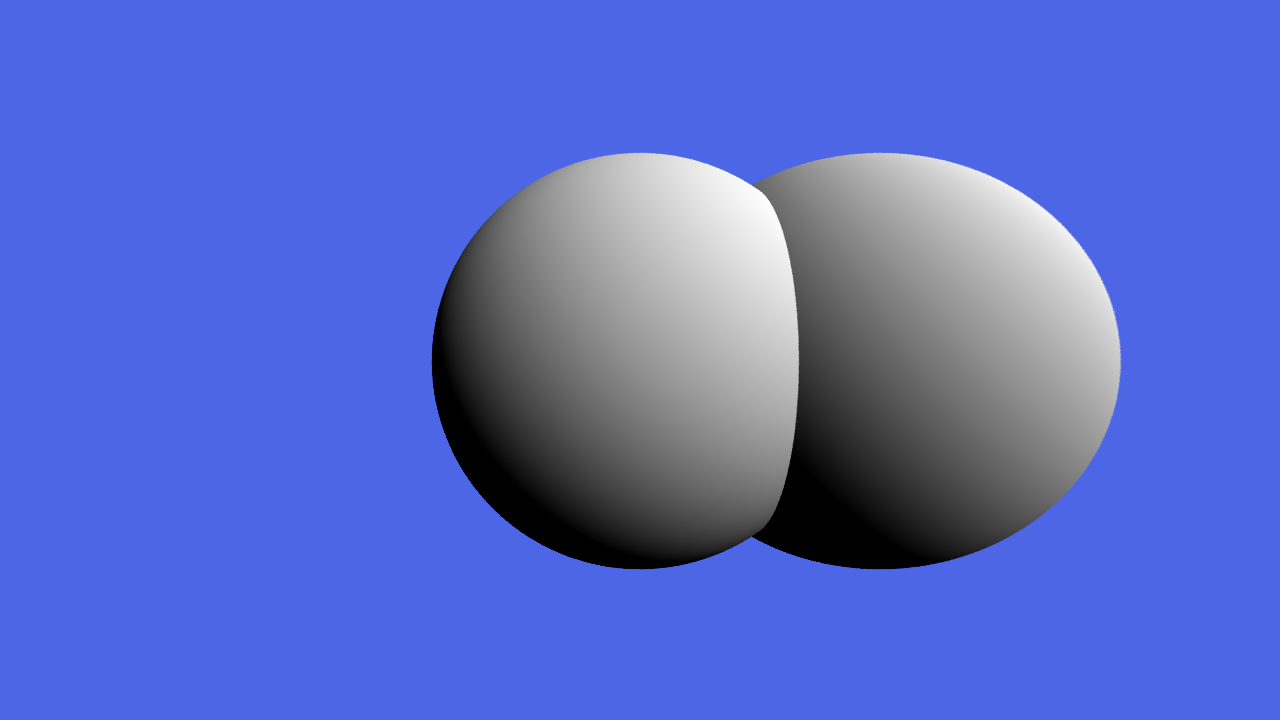
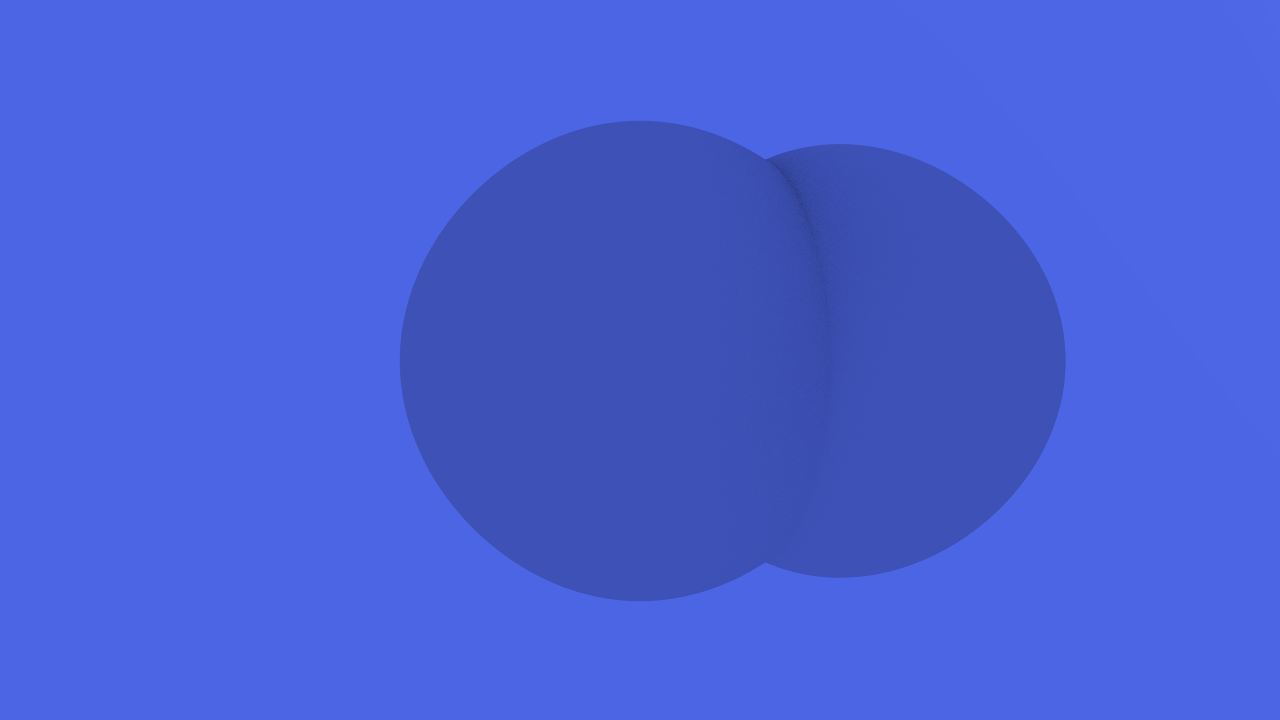
Added perspective correct camera

Changed region(s): [[0.3125, 0.1528, 0.875, 0.8556]]

diff --git a/renderer/renderer.cpp b/renderer/renderer.cpp
@@ -1,22 +1,52 @@
 #include "renderer.hpp"
 #include "../util/vec3.hpp"
 #include "../objects/sphere.hpp"
+#include "../util/rand.hpp"
 #include <cmath>
 #include <stdio.h>
 
 Ray StingrayRenderer::camera_ray(const Vec3& uv) {
-    Vec3 screen_plane = Vec3(uv.x, uv.y, 1.0f);
-    Vec3 eye = Vec3(0.0f); // Put the eye at the origin
+    float FOV = .5 * 3.1415926535897932; // 90 degrees
+
+    float angle_xz = (FOV / 2.0f) * uv.x;
+    float angle_yz = (FOV / 2.0f) * uv.y;
+
+    float loc_y = sin(angle_yz);
+    float loc_x = sin(angle_xz);
+    float loc_z = cos(angle_yz) * cos(angle_xz);
+
+    Vec3 screen_plane = Vec3(loc_x, loc_y, loc_z).normalize();
+    Vec3 eye = Vec3(0.0f); // Put the eye at the origin (for now)
 
     Vec3 direction = (screen_plane - eye).normalize();
     return Ray(eye, direction);
 }
 
-Vec3 StingrayRenderer::ray_shader(Ray& camera, Object *scene, int max_bounces) {
+Vec3 StingrayRenderer::sky_color(const Vec3& dir) {
+    return Vec3(fmaxf(0.0, fminf(1.0, powf(Vec3(3, 3, -3).normalize().dot(dir), 15)))) * Vec3(.9, .9, .7) + Vec3(0.3, 0.4, 0.9);
+}
+
+Vec3 StingrayRenderer::ray_shader(Ray camera, Object *scene, int max_bounces) {
     HitInfo intersect = scene->intersect(camera);
-    if (intersect.hit)
-        return intersect.normal.dot(Vec3(3, 3, -3).normalize());
-    return Vec3(fmaxf(0.0, fminf(1.0, powf(Vec3(3, 3, -3).normalize().dot(camera.direction), 15)))) * Vec3(.9, .9, .7) + Vec3(0.3, 0.4, 0.9);
+
+    Vec3 color = Vec3(1.0f);
+    Vec3 light = Vec3(0.0f);
+
+    for (int bounce = 0; bounce < max_bounces; ++bounce) {
+        HitInfo intersect = scene->intersect(camera); 
+        if (!intersect.hit) {
+            light = light + sky_color(camera.direction) * color;
+            break;
+        }
+            // TODO: emission & color
+        light = light + color * Vec3(0.0);
+        color = color * Vec3(0.8);
+
+        camera.origin = intersect.position + intersect.normal * 0.0001f;
+        camera.direction = rand_in_hemisphere(intersect.normal);
+    }
+
+    return light;
 }
 
 void StingrayRenderer::render(int startX, int startY, int endX, int endY, int samples, Object *scene) {
@@ -41,7 +71,7 @@ void StingrayRenderer::render(int startX, int startY, int endX, int endY, int sa
             for (int i = 0; i < samples; i++) {
                     // Antialiasing by offestting the eye position by a small amount
                     // TODO: faster random number generation
-                Ray camera = Ray (orig_camera.origin + Vec3((float)rand() / (float)RAND_MAX, (float)rand() / (float)RAND_MAX, (float)rand() / (float)RAND_MAX) * 0.002, orig_camera.direction);
+                Ray camera = Ray (orig_camera.origin + Vec3(randf(), randf(), randf()) * 0.002, orig_camera.direction);
                 color = color + ray_shader(camera, scene);
             }
             color = color / (float)samples;

diff --git a/util/rand.hpp b/util/rand.hpp
@@ -1,4 +1,23 @@
 #ifndef RAND_HPP
 #define RAND_HPP
 
+#include "vec3.hpp"
+
+float randf() {
+    return (float)rand() / (float)RAND_MAX;
+}
+
+Vec3 rand_in_unit_sphere() {
+    return Vec3(randf(), randf(), randf()).normalize();
+}
+
+Vec3 rand_in_hemisphere(const Vec3& normal) {
+    Vec3 in_unit_sphere = rand_in_unit_sphere();
+    if (in_unit_sphere.dot(normal) > 0.0) {
+        return in_unit_sphere;
+    } else {
+        return -in_unit_sphere;
+    }
+}
+
 #endif

diff --git a/renderer/renderer.hpp b/renderer/renderer.hpp
@@ -10,7 +10,8 @@ private:
     RenderBuffer &buffer;
 
     Ray camera_ray(const Vec3& uv);
-    Vec3 ray_shader(Ray& camera, Object* scene, int max_bounces=5);
+    Vec3 sky_color(const Vec3& dir);
+    Vec3 ray_shader(Ray camera, Object* scene, int max_bounces=5);
 
 public:
     StingrayRenderer(RenderBuffer &buffer) : buffer(buffer) { };

diff --git a/util/vec3.hpp b/util/vec3.hpp
@@ -68,6 +68,11 @@ public:
     }
 
 
+    // Negation
+    Vec3 operator-() const {
+        return Vec3(-this->x, -this->y, -this->z);
+    }
+
     // Dot product
     float dot(const Vec3& v) const {
         return this->x * v.x + this->y * v.y + this->z * v.z;

diff --git a/main.cpp b/main.cpp
@@ -25,7 +25,7 @@ int main(int argc, char *argv[]) {
     });
 
         // TODO: multithreading
-    renderer.render(0, 0, IMG_WIDTH - 1, IMG_HEIGHT - 1, 16, scene);
+    renderer.render(0, 0, IMG_WIDTH - 1, IMG_HEIGHT - 1, 64, scene);
 
 
     img.save(filename);
